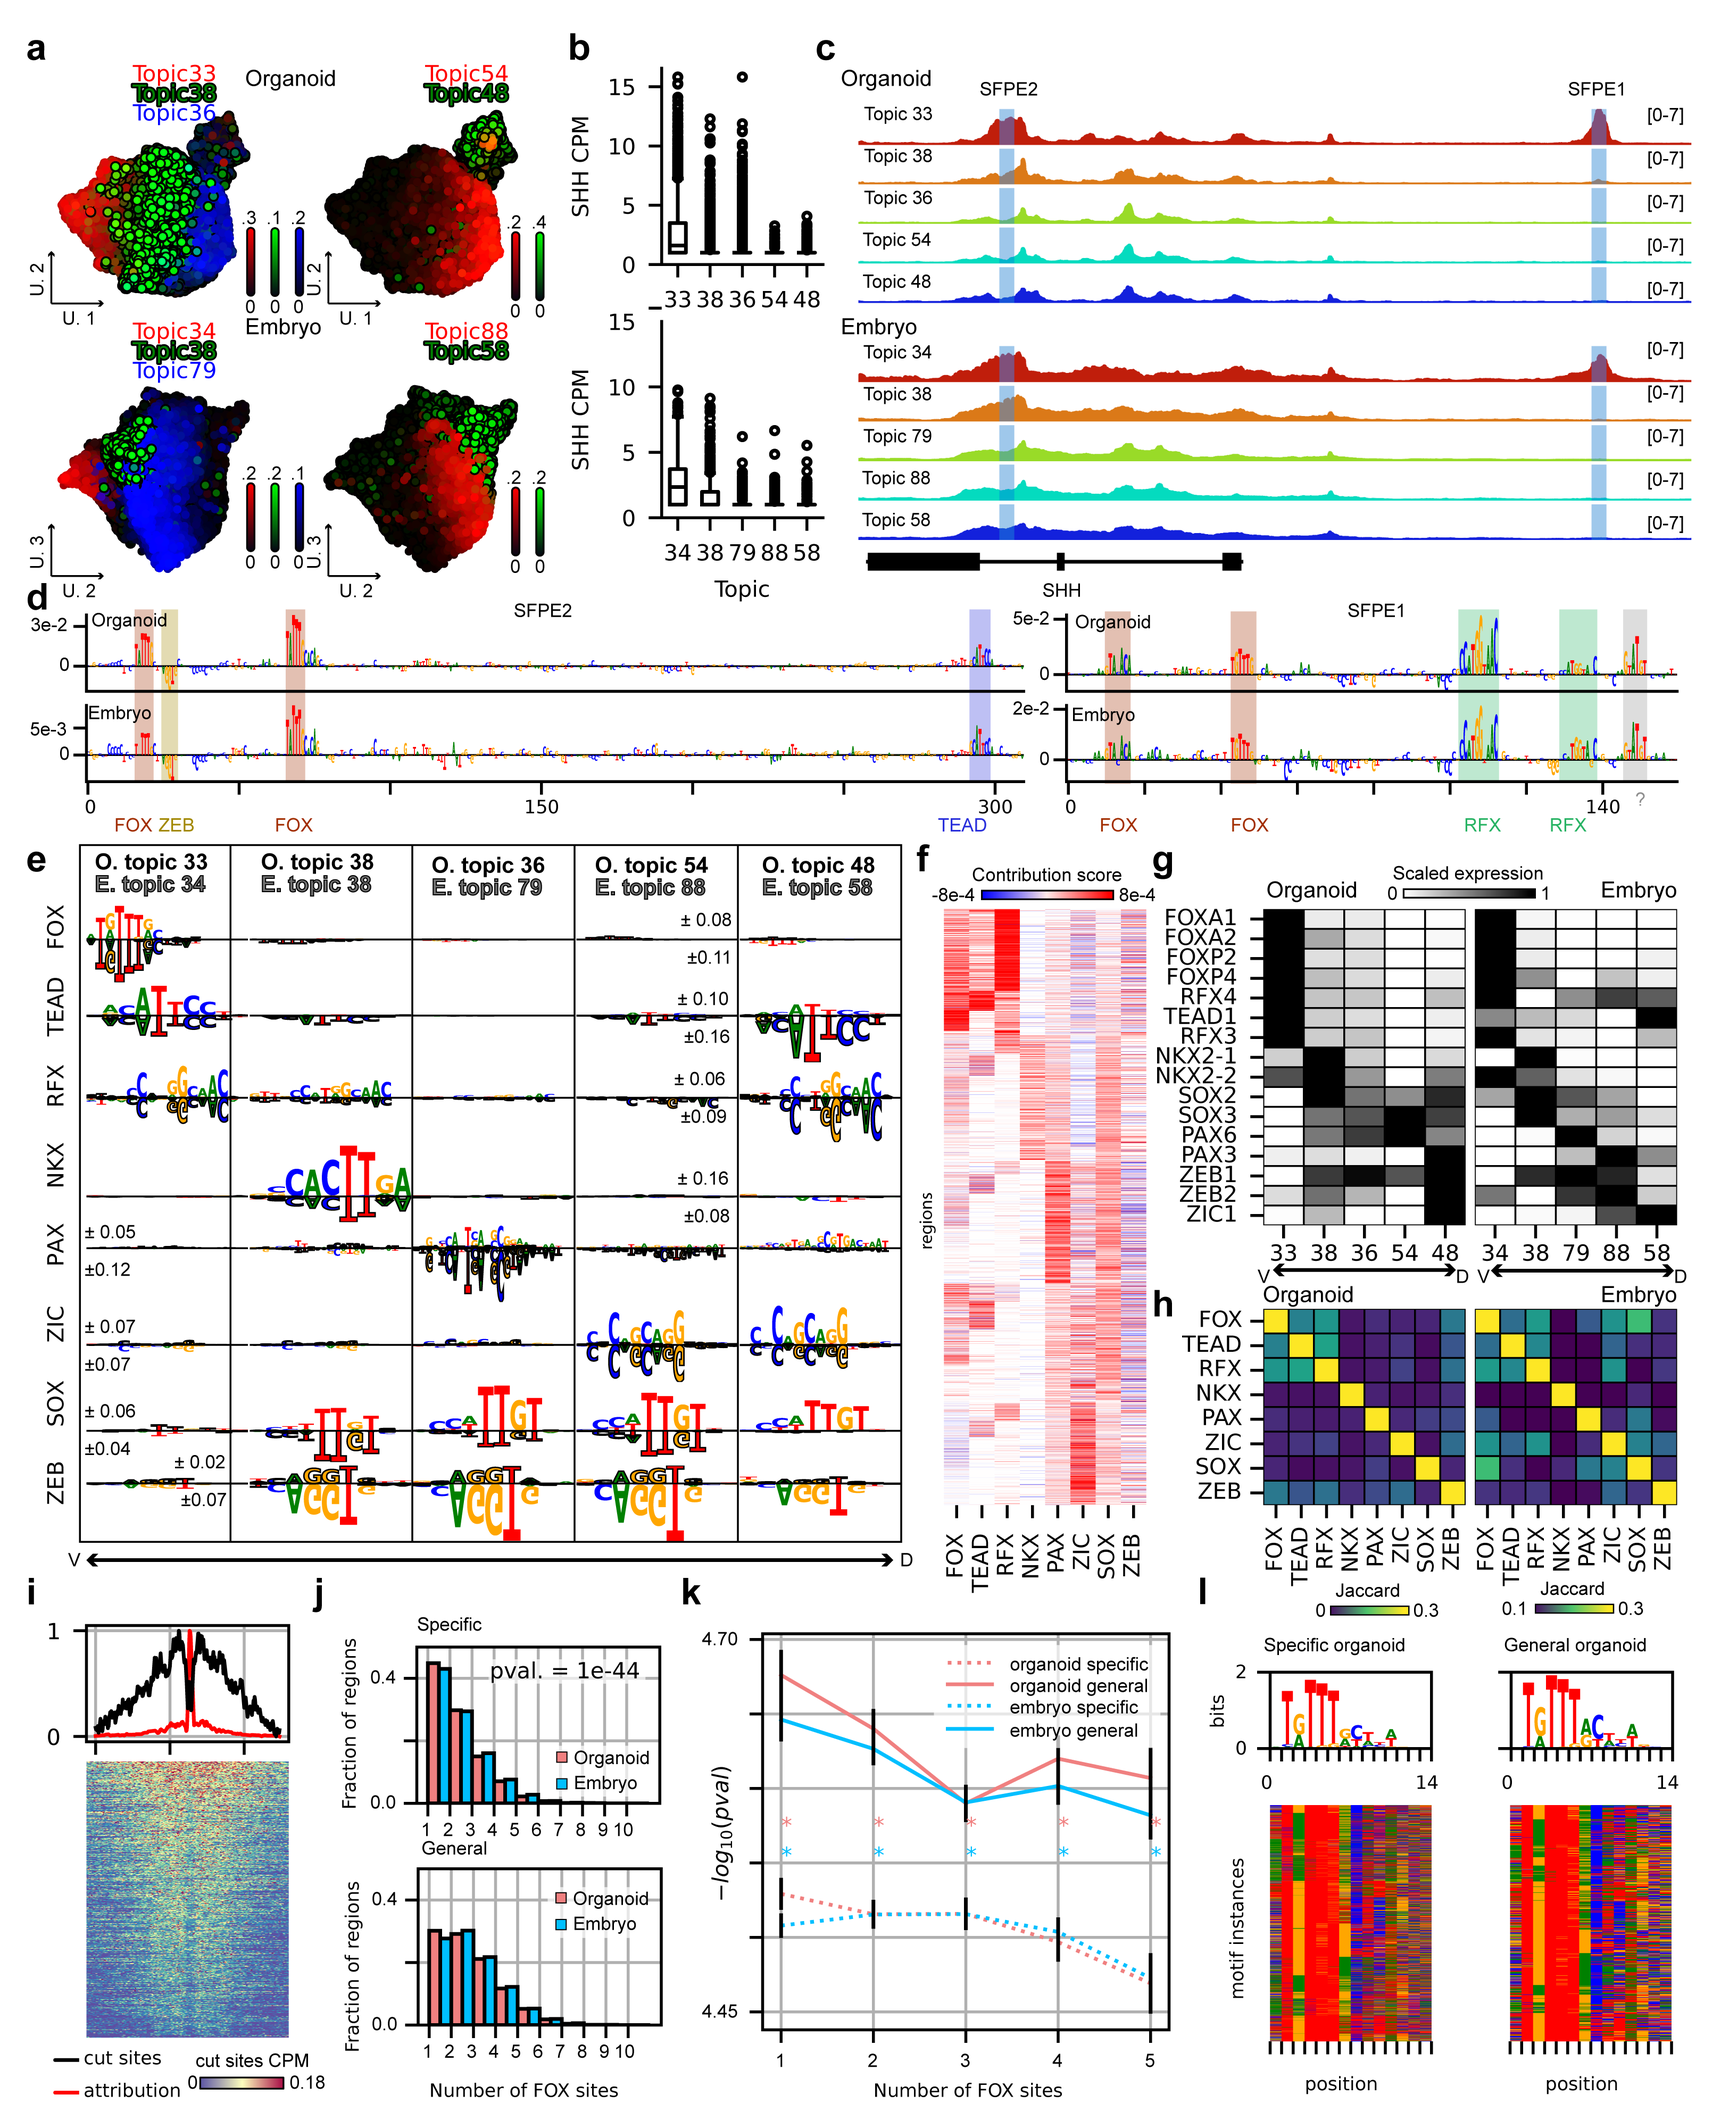
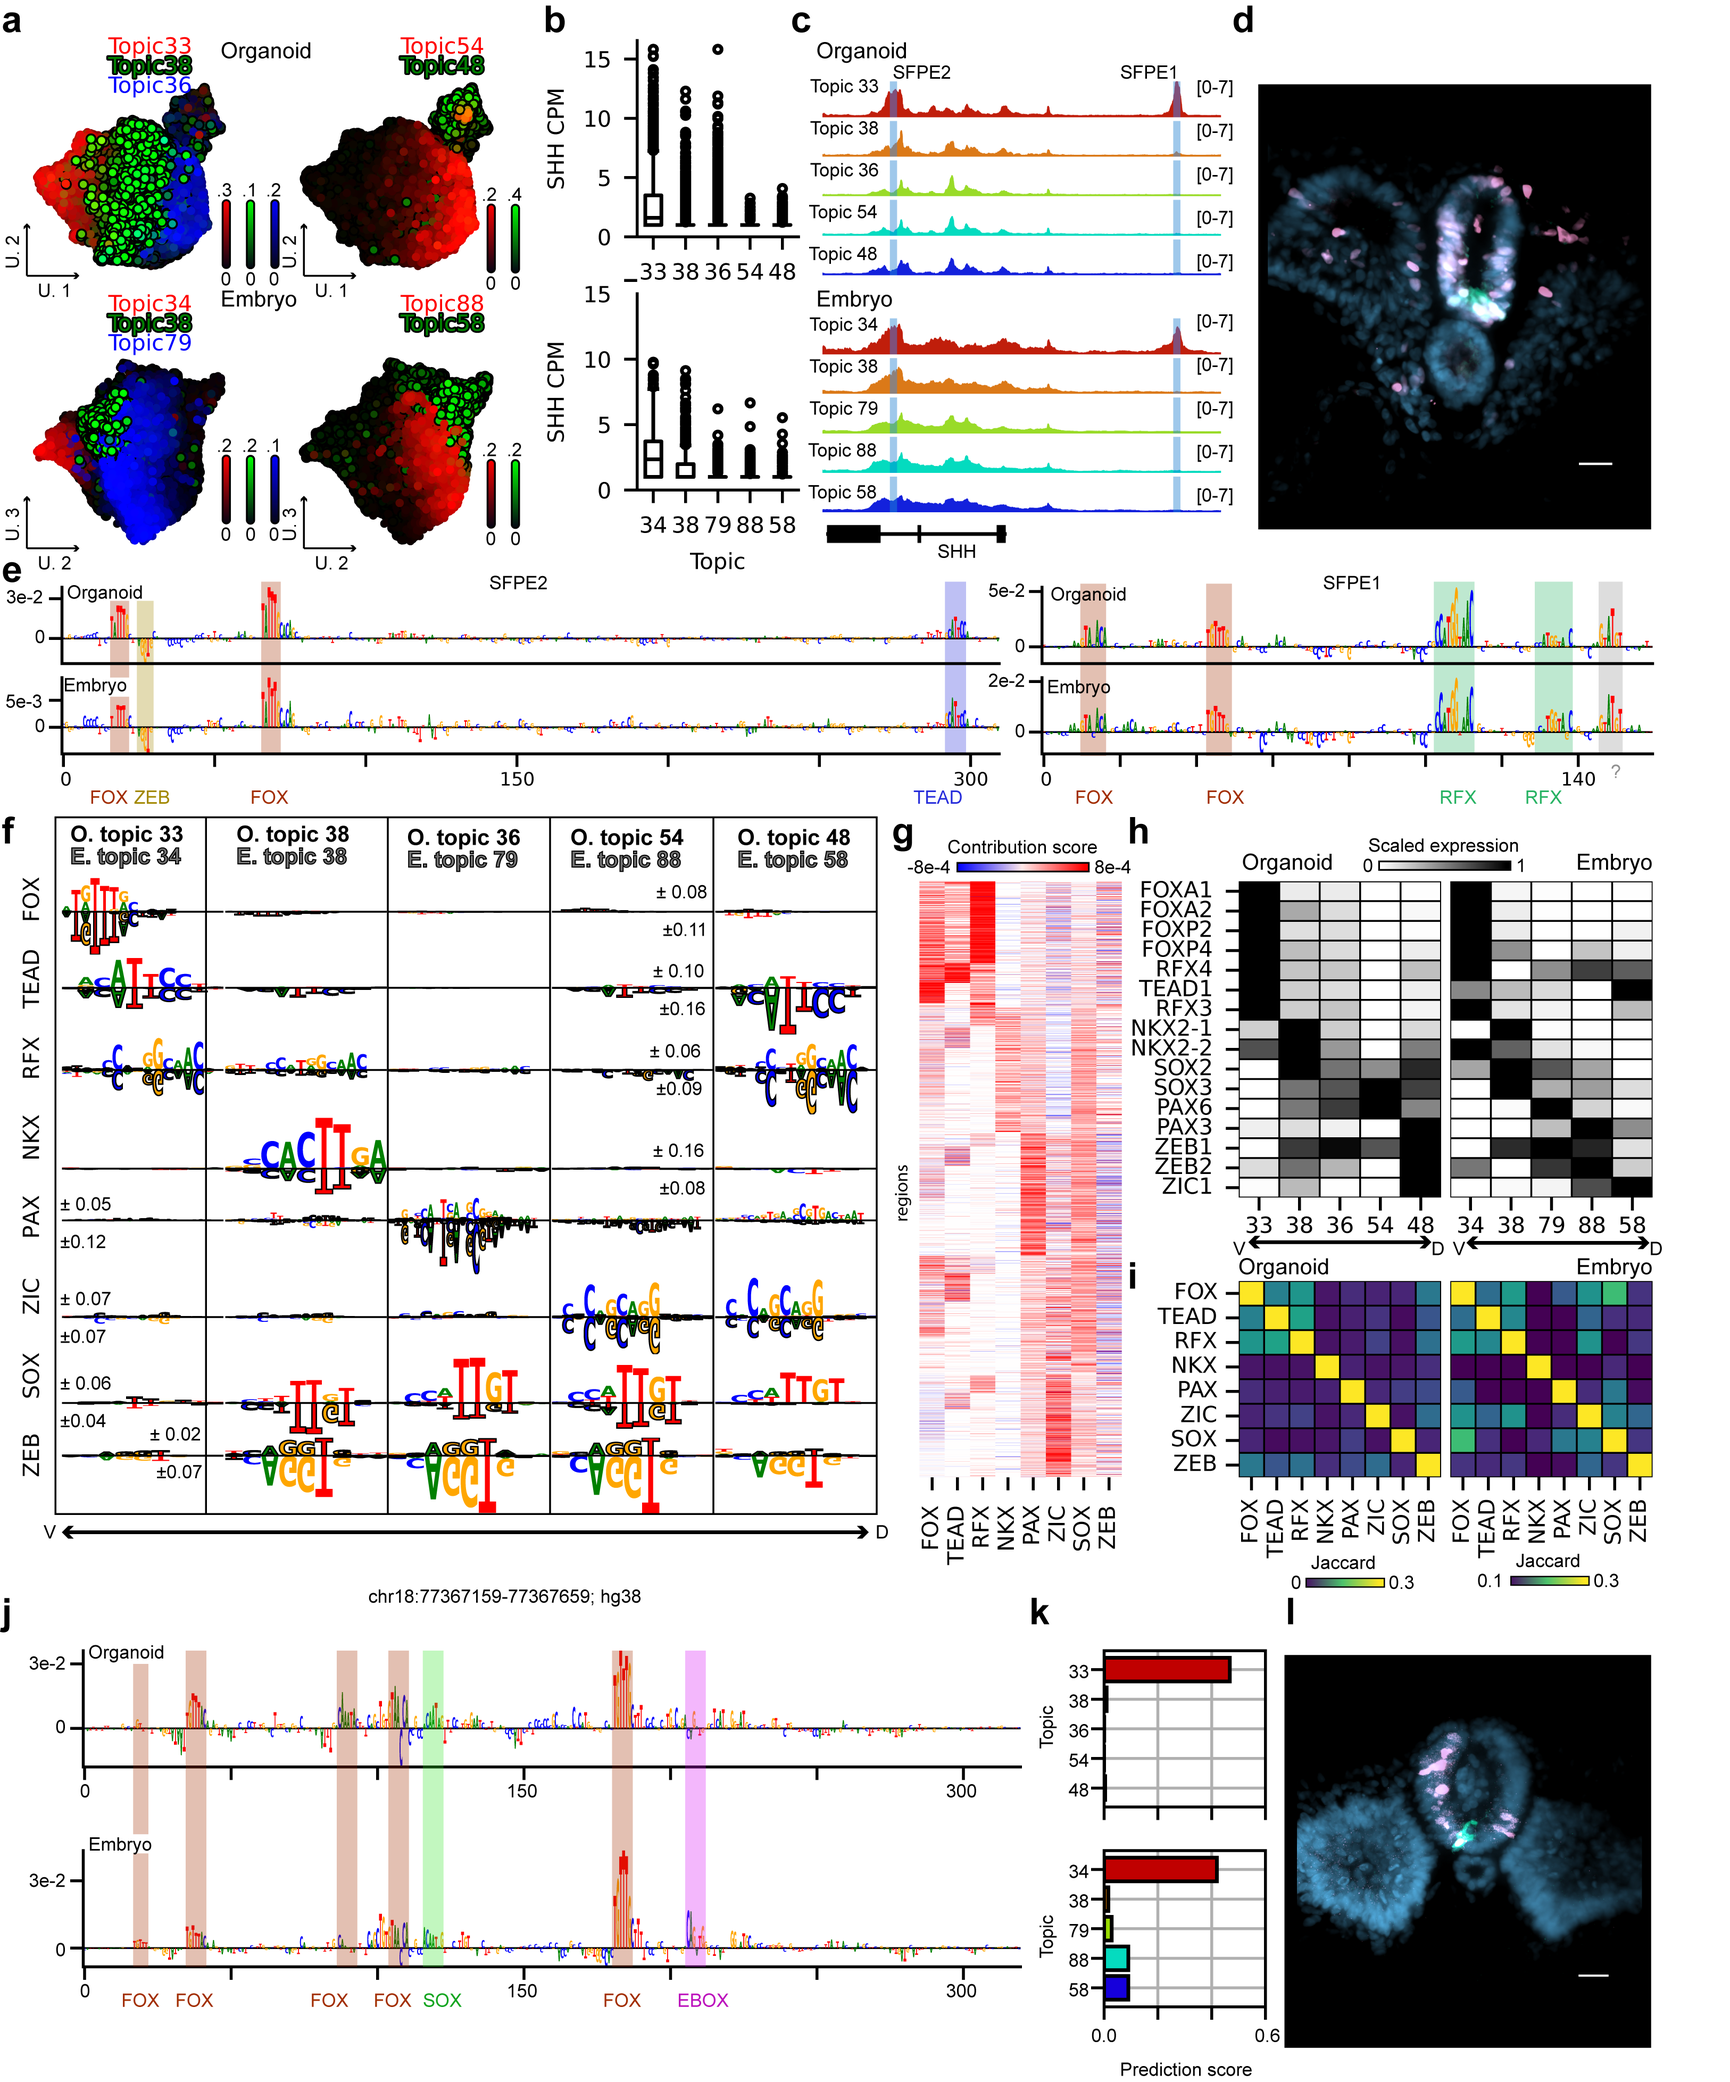
Add microscopy images to figure 3

diff --git a/manuscript.tex b/manuscript.tex
@@ -63,12 +63,13 @@
 %%%  authors may also serve as corresponding authors.
 
 \author[1,2,3,\orcidlink{0000-0001-7907-1247}]{Seppe De Winter}
-\author[1,2,3, 4, \orcidlink{0000-0002-1318-2603}]{Camiel Mannens}
-\author[1,2,3]{Valerie Christiaens}
-\author[4, \orcidlink{0000-0003-1869-0372}]{Lijuan Hu}
-\author[5, 6, 7, \orcidlink{0000-0002-2628-7834}]{Ruth M. Williams}
-\author[5, 6, \orcidlink{0000-0001-9289-0263}]{Tatjana Sauka-Spengler}
-\author[4, \orcidlink{0000-0002-3491-3444}]{Sten Linnarsson}
+\author[1,2,3,4,\orcidlink{0000-0002-1318-2603}]{Camiel Mannens}
+\author[1,2,3,\orcidlink{0000-0002-5024-8691}]{Valerie Christiaens}
+\author[1,2,3,\orcidlink{0000-0002-0876-2179}]{Roel Vandepoel}
+\author[4,\orcidlink{0000-0003-1869-0372}]{Lijuan Hu}
+\author[5,6,7,\orcidlink{0000-0002-2628-7834}]{Ruth M. Williams}
+\author[5,6,\orcidlink{0000-0001-9289-0263}]{Tatjana Sauka-Spengler}
+\author[4,\orcidlink{0000-0002-3491-3444}]{Sten Linnarsson}
 \author[1,2,3,*,\orcidlink{0000-0002-8006-0315}]{Stein Aerts}
 
 
@@ -378,40 +379,44 @@ As an example we first investigated two enhancers of \textit{SHH} that are stron
 floorplate: SFPE1 and SFPE2\cite{jeongDistinctRegulatorsShh2003}. 
 \textit{SHH} is most strongly expressed in the most ventral topic (33 and 34 resp. for the organoids and the embryo; \textbf{Fig. 3b}).
 SFPE1 is located upstream of \textit{SHH} and SFPE2 in its second intron. Both enhancers are indeed most accessible in the cells belonging to the ventral topic (\textbf{Fig. 3c}). 
-Explaining the accessibility of both enhancers using DeepNeuralTube reveals two FOX (one partial) and two RFX (one partial) binding sites in SFPE1 and two FOX, a ZEB and a TEAD binding site in SFPE2 (\textbf{Fig. 3d}).\par
+When we tested the enhancer activity of SFPE1 in chicken embryos we could confirm its floor plate specific activity
+(\textbf{Fig. 3d}).
+Explaining the accessibility of both enhancers using DeepNeuralTube reveals two FOX (one partial) and two RFX (one partial) binding sites in SFPE1 and two FOX, a ZEB and a TEAD binding site in SFPE2 (\textbf{Fig. 3e}).\par
 
 To investigate the enhancer code underlying dorso-ventral patterning of neural progenitors further, we clustered 
 and aligned \textit{de novo} motifs, identified in dorso-ventral regions, based on pairwise motif similarities. 
 Next, we calculated the average contribution for all identified motif instances per cluster and for each topic 
-resulting in a dorso-ventral enhancer code-table (\textbf{Fig. 3e}).
+resulting in a dorso-ventral enhancer code-table (\textbf{Fig. 3f}).
 Both $DeepNeuralTube^o$ and $DeepNeuralTube^e$ found similar patterns underlying the dorso-ventral states and the 
-importance of the instances of these patterns is highly correlated across both models (0.75 average Pearson correlation; \textbf{Fig. 3e}). 
+importance of the instances of these patterns is highly correlated across both models (0.75 average Pearson correlation; \textbf{Fig. 3f}). 
 For the most ventral state (organoid topic 33 and embryo topic 34) a combination of FOX, TEAD and RFX instances 
-are important (\textbf{Fig. 3e-f}) and the importance of these instances correlates with the expression of respectively \textit{FOXA1/A2/P2/P4}, \textit{TEAD1} and \textit{RFX3/4} in both the organoid and embryo (\textbf{Fig. 3g} and Supplementary Fig. S3). 
-In subsequent more dorsal neural progenitor domains we observe importance of NKX instances, correlating with \textit{NKX2-1/2} expression (\textbf{(Fig. 3e- g)}); 
-PAX instances, correlating with \textit{PAX3/6} expression (\textbf{Fig. 3e-g} and Supplementary Fig. S3) and 
-ZIC instances, correlating with \textit{ZIC1} expression (\textbf{Fig. 3e-g} and Supplementary Fig. S3). 
+are important (\textbf{Fig. 3f-g}) and the importance of these instances correlates with the expression of respectively \textit{FOXA1/A2/P2/P4}, \textit{TEAD1} and \textit{RFX3/4} in both the organoid and embryo (\textbf{Fig. 3h} and Supplementary Fig. S3). 
+In subsequent more dorsal neural progenitor domains we observe importance of NKX instances, correlating with \textit{NKX2-1/2} expression (\textbf{(Fig. 3f-h)}); 
+PAX instances, correlating with \textit{PAX3/6} expression (\textbf{Fig. 3f-h} and Supplementary Fig. S3) and 
+ZIC instances, correlating with \textit{ZIC1} expression (\textbf{Fig. 3f-h} and Supplementary Fig. S3). 
 For all dorso-ventral progenitor domains, except the most ventral one (and the most dorsal one in the embryo), 
-SOX instances are important correlating with the expression of \textit{SOX2/3} (\textbf{Fig. 3e-g} and Supplementary Fig. S3). 
-Similarly, ZEB instances have a negative importance to the accessibility of regions in dorso-ventral domains except the most ventral one (\textbf{Fig. 3e} and Supplementary Fig. S3). 
-Finally, we calculated the Jaccard index of genomic regions based on the presence of instances of each identified pattern to investigate which patterns often co-occur in the same regions (\textbf{Fig. 3h}). 
-FOX, TEAD and RFX instances often co-occur in the same genomic region while instances of other patterns tend to be present in separate regions (\textbf{Fig. 3h}).\par
+SOX instances are important correlating with the expression of \textit{SOX2/3} (\textbf{Fig. 3f-h} and Supplementary Fig. S3). 
+Similarly, ZEB instances have a negative importance to the accessibility of regions in dorso-ventral domains except the most ventral one (\textbf{Fig. 3f} and Supplementary Fig. S3). 
+Finally, we calculated the Jaccard index of genomic regions based on the presence of instances of each identified pattern to investigate which patterns often co-occur in the same regions (\textbf{Fig. 3i}). 
+FOX, TEAD and RFX instances often co-occur in the same genomic region while instances of other patterns tend to be present in separate regions (\textbf{Fig. 3i}).\par
+
+To assess the ability of DeepNeuralTube for prioritizing enhancer with cell type-specific activity we selected a genomic
+region that was predicited to be specific for ventral neural progenitors (\textbf{Fig. 3k}). Explaining this region,
+reveals multiple FOX instances and a SOX instance by both $DeepNeuralTube^o$ and $DeepNeuralTube^e$ (\textbf{Fig. 3j}). 
+Finally, we tested the activity of this region in chicken embryos, revealing that it indeed is specifically active in
+the floorplate of the neural tube (\textbf{Fig. 3l}).\par
 
 It has been reported that FOXA1/2 is a pioneer factor\cite{iwafuchi-doiPioneerTranscriptionFactor2016, iwafuchiGeneNetworkTransitions2020}. 
-Indeed, when centering on FOX instances we observe a strong Tn5 cut-site footprint (\textbf{Fig. 3i}). 
+Indeed, when centering on FOX instances we observe a strong Tn5 cut-site footprint (\textbf{Supplementary Fig. S4a}). 
 We then asked if there is any difference between regions that are generally bound by FOXA2 in any cell state that expresses this TF and regions, bound by FOXA2, that are specific to the floorplate. 
 For this purpose, we intersected FOXA2 ChIP-seq peaks in HepG2 and A549  with floorplate peaks containing FOX instances. 
 We classified the regions that overlap with any of the ChIP-seq datasets as regions that are generally bound by FOXA2 and those that did not as floorplate specific. Quantifying both the number of FOX instances per region and 
 the affinity of each individual instance (making use of the FOX motif score calculated using
 FIMO\cite{grantFIMOScanningOccurrences2011, schreiberTangermemeBiologicalSequence2025}) reveals that floorplate 
-specific FOXA2 target regions have fewer FOX instances compared to general FOXA2 target regions (\textbf{Fig. 3j}). 
+specific FOXA2 target regions have fewer FOX instances compared to general FOXA2 target regions (\textbf{Supplementary Fig. S4b}). 
 Furthermore, individual FOX instances in general FOXA2 target regions have higher affinity compared to FOX instances in
-specific regions (\textbf{Fig. 3k}). These results suggest that the overall affinity of general FOXA2 target regions 
+specific regions (\textbf{Supplementary Fig. S4c}). These results suggest that the overall affinity of general FOXA2 target regions 
 is higher (either by having a greater number of binding sites or by having binding sites with higher affinity).
-Generating a \textit{de novo} motif from general and specific FOXA2 target regions that have a single FOX instance 
-reveals that FOX instances in regions that are generally bound tend to be of the form \textit{TGTTT\underline{AC}} 
-while those instances in specific regions tend to be of the form \textit{TGTTT} (\textbf{Fig. 3l}).\par
-%TODO: Revisit this analysis but intersect with floor plate topic instead of FOX hits!
 
 \afterpage{\clearpage}
 \begin{figure}[p]
@@ -432,11 +437,19 @@ while those instances in specific regions tend to be of the form \textit{TGTTT} 
     \textbf{b}, Boxplots of the expression of \textit{SHH} in organoid (top) and embryo (bottom) across different dorso-  ventral topics ($n_{topic 33}$ = 4,571, $n_{topic 38}$ = 4,521, $n_{topic 36}$ = 6,120, $n_{topic 54}$ = 2,808, and $n_{topic 48}$ = 5,390 for organoid cells;
       and $n_{topic 34}$ = 637, $n_{topic 38}$ = 1,093, $n_{topic 79}$ = 3,939, $n_{topic 88}$ = 1,861, and $n_{topic 58}$ = 1,773 for embryo cells).  With n representing the number of cells.
     \textbf{c}, Chromatin accessibility in organoid (top) and embryo (bottom) across dorso-ventral topics for locus chr7:155,799,664-155,827,483 ; hg38. SFPE2 and SFPE1 are highlighted. 
-    \textbf{d}, Nucleotide contribution scores for SFPE2 (left) and SFPE1 (right) for organoid topic 33 (top) and embryo topic 34 (bottom). 
-    \textbf{e}, Code table showing average contribution score of pattern instances for each dorso-ventral topic. Contribution scores for $DeepNeuralTube^o$ are not outlined. Contribution scores for $DeepNeuralTube^e$ are outlined and negated. 
-    \textbf{f}, Heatmap showing the maximum normalized contribution score for each of the top 1,000 regions per topic (y-axis) and pattern (x-axis) for dorso-ventral topics. 
-    \textbf{g}, Heatmap showing scaled expression of transcription factors corresponding to identified patterns in organoid (left) and embryo (right) dorso-ventral topics. 
-    \textbf{h}, Heatmap showing Jaccard index of regions based on the presence of instances of the identified patterns. 
+    \textbf{d}, Enhancer reporter assay in chicken embryo. Blue is DAPI, pink is constitutive electroportion control,
+    green is GFP driven by SFPE1 enhancer.
+    \textbf{e}, Nucleotide contribution scores for SFPE2 (left) and SFPE1 (right) for organoid topic 33 (top) and embryo topic 34 (bottom). 
+    \textbf{f}, Code table showing average contribution score of pattern instances for each dorso-ventral topic. Contribution scores for $DeepNeuralTube^o$ are not outlined. Contribution scores for $DeepNeuralTube^e$ are outlined and negated. 
+    \textbf{g}, Heatmap showing the maximum normalized contribution score for each of the top 1,000 regions per topic (y-axis) and pattern (x-axis) for dorso-ventral topics. 
+    \textbf{h}, Heatmap showing scaled expression of transcription factors corresponding to identified patterns in organoid (left) and embryo (right) dorso-ventral topics. 
+    \textbf{i}, Heatmap showing Jaccard index of regions based on the presence of instances of the identified patterns. 
+    \textbf{j}, Nucleotide contribution score for chr18:77367159-77367659; hg38 for organoid topic 33 (top) and embryo
+    topic 34 (bottom).
+    \textbf{k}, Prediction scores for chr18:77367159-77367659; hg38 for doros-ventral topics in organoid (top) and
+    embryo (botto).
+    \textbf{l}, Enhancer reporter assay in chicken embryo. Blue is DAPI, pink is constitutive electroportion control,
+    green is GFP driven by chr18:77367159-77367659; hg38 enhancer.
 }
 \end{figure}
 
